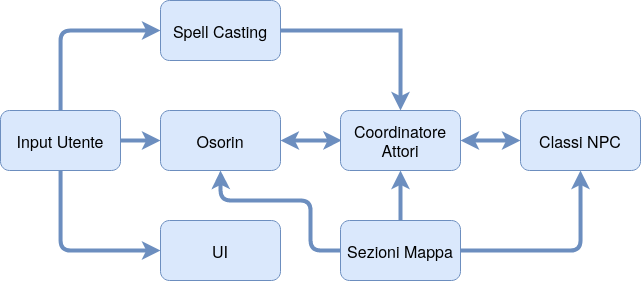
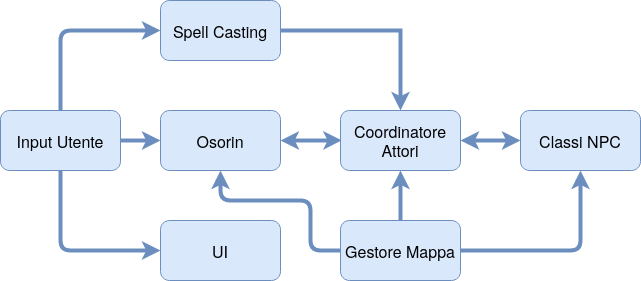
Writing in detail the diagram

diff --git a/docs/Architettura.md b/docs/Architettura.md
@@ -7,8 +7,53 @@ Al momento per il motore di gioco sono identificabili dei macrogruppi come lista
 - User Interface (UI) che comprende la finestra di dialogo gestita da utente
 - Coordinatore degli attori (quando osorin lancia una magia, il coordinatore informa gli oggetti colpiti)
 - Classi NPC (nemici, animali, pericoli ambientali, enigmi, personaggi statici, ecc.)
-- Gestore delle sezioni di mappa (che contengono oggetti interagibili, nemici, personaggi, ecc.)
+- Gestore delle mappe (livelli che contengono oggetti interagibili, nemici, personaggi, ecc.)
 
 <img src="LyskarEngineDiagram.png" alt="Diagramma dell'architettura"/>
 
-Work in progress...
+### Input utente
+Il gestore dell'input utente muove Osorin sullo schermo, controlla la finestra dei dialoghi 
+per quanto riguarda i comandi Prossima linea di dialogo, Accelera rendering e Salta dialogo, nonché redirige i comandi ricevuti per gestire l'inserimento di rune.
+
+### Gestore mappa
+Il gestore di mappa crea tutti gli oggetti necessari per la fruibilità di ogni data sezione di gioco: carica e visualizza lo sfondo, insieme a tutti gli altri asset grafici e interagibili che sono presenti nella propria sezione, crea Osorin e lo posiziona nel suo punto di partenza, infine crea 
+gli NPC e li posiziona nei punti a loro assegnati. Il generatore di mappa si occupa anche di ricordarsi lo stato di ogni sezione di mappa: ad esempio se una determinata porta è stata sbloccata, se un gruppo di nemici o boss è stato abbattuto, ecc.
+
+### Attori - Osorin e NPC
+
+### Coordinatore Attori
+Il coordinatore degli attori è un motore generico a cui ogni oggetto generato si "registra" nel momento in cui viene creato. 
+Ogni oggetto fornisce alla macchina a stati una lista di stati, di stimoli desiderati e di
+segnali disponibili. La macchina a stati si occupa di coordinare i vari oggetti e di farli comunicare
+insieme. La macchina a stati internamente gestisce una turnazione il cui stimolo di commutazione
+proviene dal sistema di temporizzazione di Godot; quindi un Timer oppure delle chiamate provenienti
+da _process().
+Ciascun oggetto ha diversi stati per gestire il proprio funzionamento. Ad esempio l’ogetto Osorin avrà,
+come la demo del kraken, uno stato in cui alza le braccia, uno stato in cui muove le mani per lanciare
+un incantesimo, uno stato per abbassare le braccia, ecc.
+La macchina a stati principale cui l’oggetto si è registrato riceve i messaggi inviati dall’oggetto A, ne valuta la correttezza (cioè se il destinatario esiste e se il messaggio ha senso per quel destinatario) e poi li invia all’oggetto B. Ad esempio, Osorin è l’oggetto A ed indirizza l’incantesimo LFDG all’oggetto
+Sasso. Un incantesimo Lévita ha senso per un sasso, ma un incantesimo Fuoco no. Inoltre la macchina
+a stati gestisce la temporizzazione degli stati di ciascun oggetto.
+Ad ogni stimolo temporale la macchina a stati commuta tra i vari oggetti, uno per uno, legge i messaggi
+da esso accodati e gli invia la coda messaggi ad esso destinata. La macchina a stati fa quindi da
+“collante” tra i vari oggetti e permette che questi possano interagire tra loro pur mantenendo il codice a
+compartimenti stagni. La dinamicità consiste nel fatto che le diverse combinazioni di messaggi da e per
+i vari oggetti e gli stati che ciascun oggetto può assumere sono variabili a seconda di quali oggetti si
+siano collegati ad essa. Come tali, questi stati possono essere gestiti con del codice molto semplice. Ad
+esempio, se Osorin sta muovendo le braccia allora non potrà completare l’incantesimo finché le braccia
+non si saranno alzate. Allo stesso modo un troll arciere dovrà prendere una nuova freccia dalla faretra e
+incoccarla prima di poterla lanciare.
+
+Esempi di stati:
+Spostamento, incocca freccia, mira, lancia freccia, scappa, ecc.
+Esempi di messaggi inviati:
+Selezione bersaglio, lancio magia, attivazione di un controllo (ad esempio l’apertura delle porte in
+Doom)
+Esempi di messaggi accettati:
+Selezione accettata, Danni da incantesimo accettati, Blocco da magica “congela” accettato, ecc.
+Esempi di stimoli accettati, provenienti dalla macchina a stati:
+Tick temporale (ogni tot decimi di frame), Timer (scadenza di un timer richiesto e configurato dallo
+stesso oggetto che lo riceve), Osorin è entrato nel raggio d’azione, Osorin è uscito dal raggio d’azione,
+ecc.
+
+### Spell Casting
